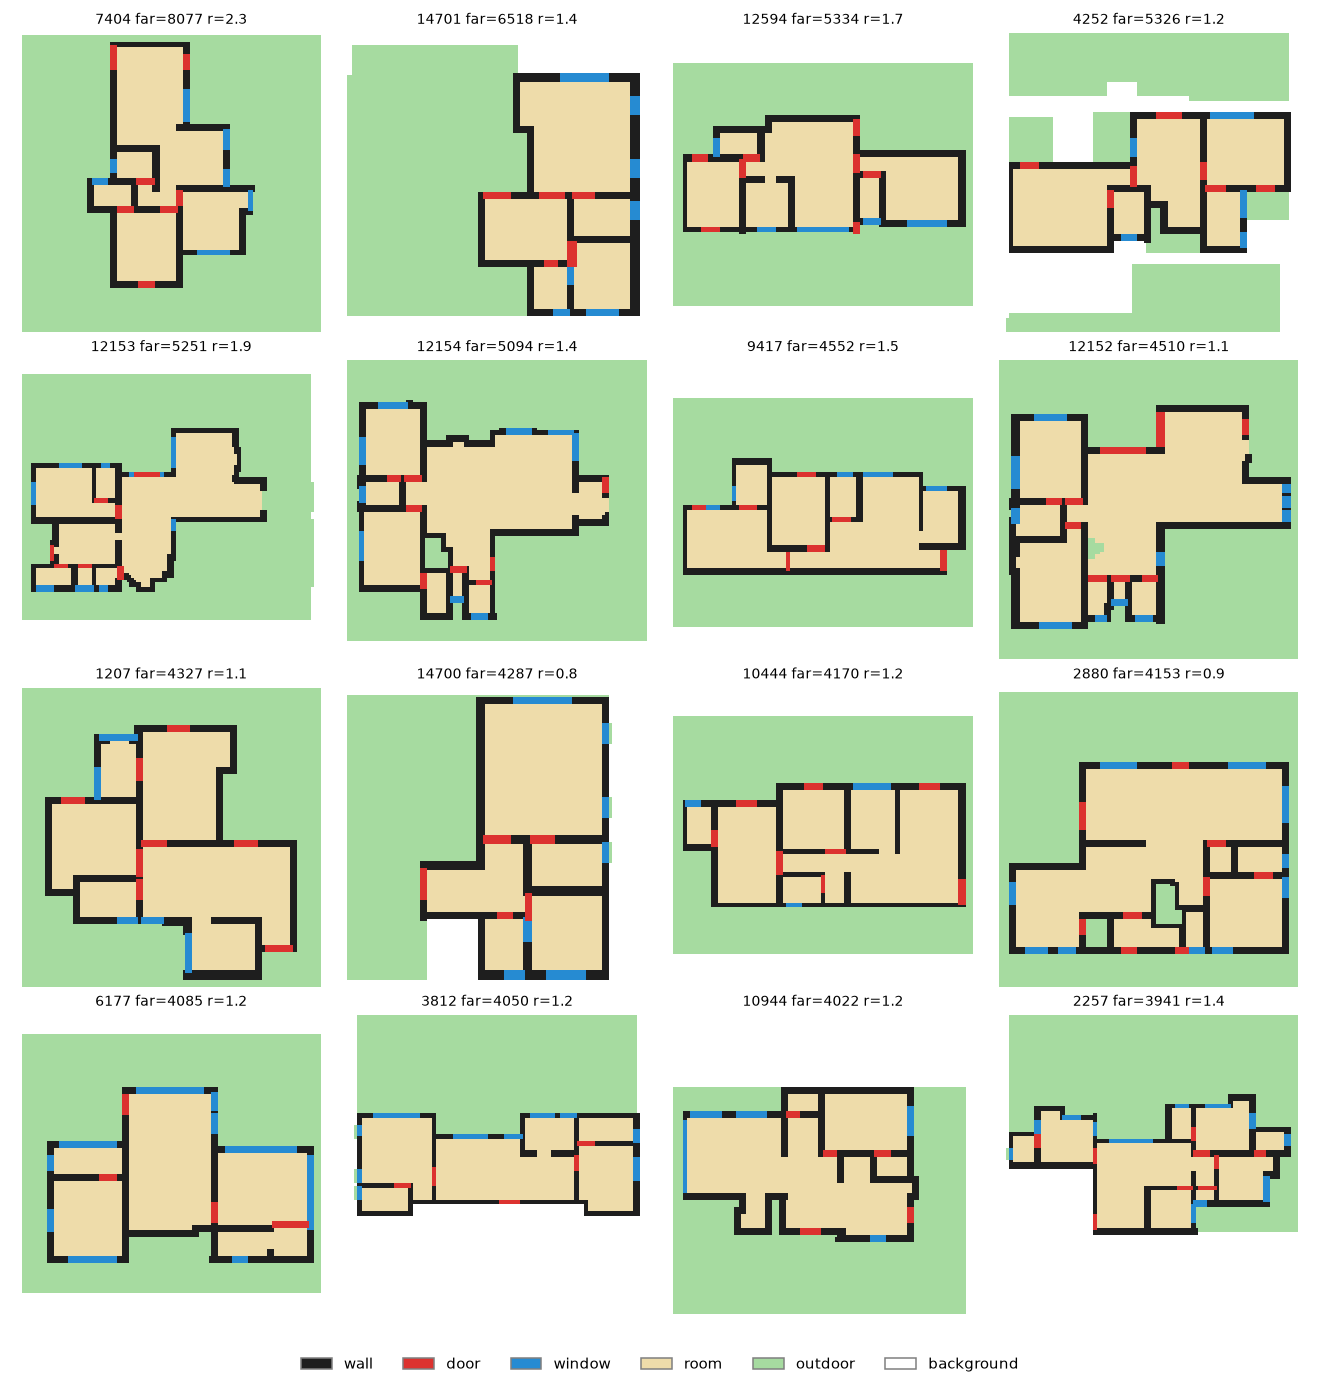
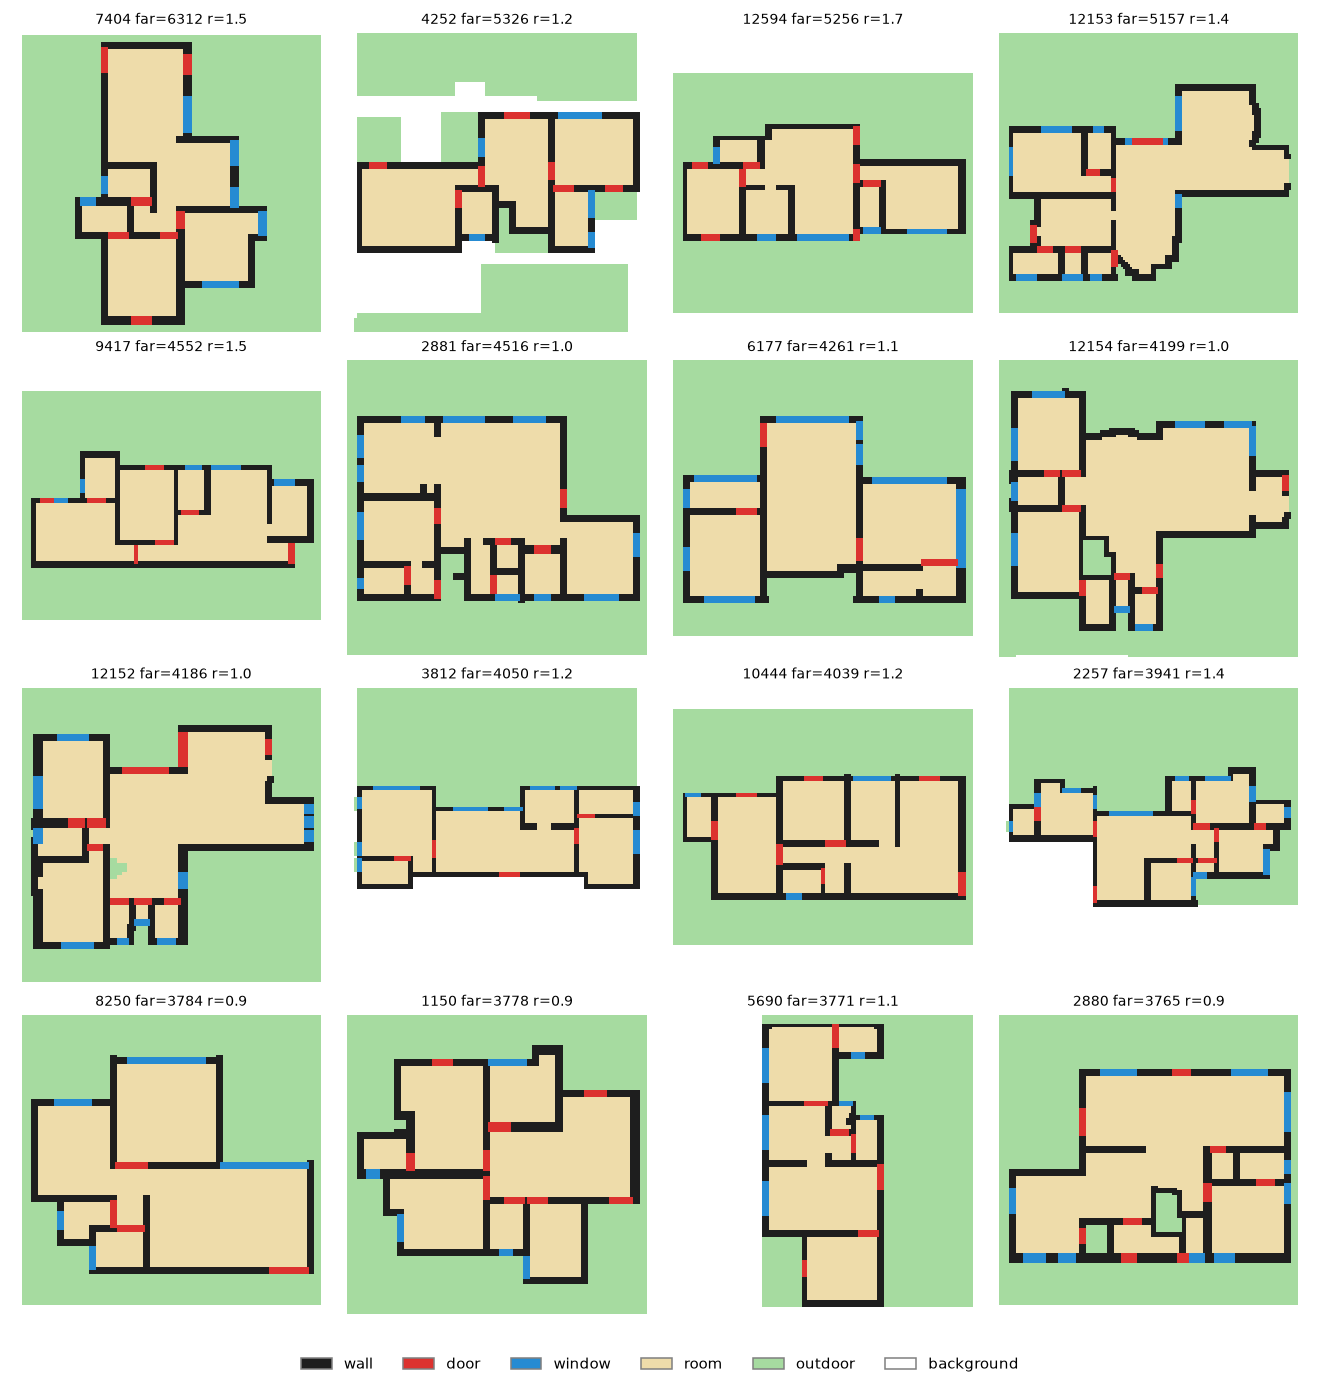
Frame plans on walls+doors+windows only; add data notes
- Framing: bounding box of walls, doors (incl. front door) and windows
  scaled to 120 px + 4 px margin; balconies, outside stairs and outdoor
  areas beyond the frame are cropped (previously protruding balconies/
  stairs shrank the building, up to 1.8x)
- Full re-run: 759 near-duplicates removed; split 12,446 / 1,556 / 1,556
- docs/data_notes.md: representation, framing rule, data problems,
  dedup/split rules and current numbers; regenerated figures

diff --git a/src/data/rasterize.py b/src/data/rasterize.py
@@ -1,9 +1,11 @@
 """Turning one vector floor plan into a 128x128 image ("rasterizing").
 
 Steps for one plan:
-  1. Find the bounding box of the building (walls, doors, rooms, balconies).
+  1. Find the bounding box of the building's structure (walls + doors +
+     windows).
   2. Scale it so the LONGER side fills the image minus the padding, keeping
-     the aspect ratio, and centre it.
+     the aspect ratio, and centre it. Anything outside the image (balconies,
+     outside stairs, garden, land ...) is simply cropped.
   3. Paint each class in PAINT_ORDER into a "label map": a 128x128 array where
      every pixel holds one class number (0=wall, 1=door, ... 5=background).
   4. Convert the label map to 6 channels ("one-hot"): channel c is 1 where
@@ -23,7 +25,8 @@ SHIFT = 4
 
 
 def plan_bounds(plan):
-    """Smallest box (xmin, ymin, xmax, ymax) containing the building."""
+    """Smallest box (xmin, ymin, xmax, ymax) containing the building's
+    structure (EXTENT_FIELDS: walls, doors, windows)."""
     boxes = [poly.bounds
              for field in EXTENT_FIELDS
              for poly in get_polygons(plan, field)]

diff --git a/src/data/classes.py b/src/data/classes.py
@@ -24,9 +24,10 @@ RESPLAN_FIELDS = {
 }
 
 # Fields that decide how a plan is scaled into the 128x128 frame: the
-# building itself (incl. balconies). Garden/land/parking are left out so a
-# big garden doesn't shrink the apartment; they are cut off at the frame edge.
-EXTENT_FIELDS = ["wall", "door", "front_door", "window", "balcony"] + RESPLAN_FIELDS[ROOM]
+# building's structure only (walls + doors + windows). Everything else
+# (balconies, outside stairs, garden, land, parking) is cropped where it
+# extends beyond the frame, so it can never shrink the building.
+EXTENT_FIELDS = ["wall", "door", "front_door", "window"]
 
 # Order in which classes are painted. Later ones are painted on top, so if two
 # shapes cover the same pixel, the later class wins: outdoor is the bottom

diff --git a/docs/data_notes.md b/docs/data_notes.md
@@ -1,0 +1,76 @@
+# Data notes
+
+How the ResPlan dataset is turned into our training data, and why.
+Code: `src/data/` · settings: `configs/data.yaml` · rebuild: `python -m src.data.build_dataset` · checks/figures: `python -m src.data.checks`.
+
+## Source
+
+- **ResPlan** (github.com/m-agour/ResPlan, data CC BY 4.0 — credit it in the report): 17,000 residential unit plans, one pickle (`ResPlan.pkl`), a list of dicts of shapely shapes.
+- Coordinates are **not metres** (the README says otherwise): every plan is rescaled to ~256 units on its long side. Only `area` (m², from the listing) is metric.
+- ~775 geometries are invalid (self-intersecting). We rasterize by drawing coordinates with OpenCV, which works on invalid shapes; avoid shapely boolean ops on raw data.
+- The pickle is loaded with an allow-listed unpickler (`src/data/resplan.py`), because pickles can run code.
+
+## Representation
+
+128×128 image, 6 one-hot channels (exactly one class per pixel), defined in `src/data/classes.py`:
+
+| Channel | ResPlan fields |
+|---|---|
+| wall | wall |
+| door | door, front_door |
+| window | window |
+| room (enclosed indoor rooms) | living, bedroom, bathroom, kitchen, storage, stair — clipped to `inner` |
+| outdoor | balcony, garden, land, parking, pool (no terrace class exists) |
+| background | everything else (incl. `inner`, `neighbor`) |
+
+Paint order: outdoor → room → wall → window → door, so doors/windows sit on top of walls (they fill wall gaps; they don't overlap walls in the raw data).
+
+## Framing rule
+
+Each plan is **normalized on its own building structure**:
+
+1. Take the bounding box of **walls + doors (incl. front door) + windows** only.
+2. Scale it so its longer side is **120 px** (4 px margin on each side), keeping the aspect ratio, and centre it.
+3. Everything else — balconies, outside stairs, garden, land, parking — is drawn in that frame and **cropped** where it extends beyond the 128×128 image.
+
+Why: earlier versions framed on walls + rooms + balconies, so a protruding balcony or an outside stair shrank the building (up to 1.8×). Switching to structure-only framing enlarged 4,769 plans by >1% (1,670 by >10%, 106 by >25%).
+
+Consequence: tall or wide plans have empty margin on two sides; when the plan has a yard, that margin shows as outdoor. This is expected, not a framing error.
+
+**Real scale is kept in `metadata.csv`**: `area_m2`, `px_per_unit`, `metres_per_pixel` (= sqrt(area_m2 / (inner + wall area)) / px_per_unit), `wall_thickness_m`, `scale_ok` (False for 67 plans whose implied wall thickness is outside 0.10–0.40 m, i.e. a bad `area` value). Median ≈ 0.11 m per pixel; walls/doors are ~2 px thick.
+
+## Data problems found and how they are handled
+
+1. **ResPlan "augmented" plans are broken → excluded (683 plans).** `split.json["augmented"]` lists rotated/flipped/scaled copies (ids ≥ 100,000). ResPlan's augmentation never transformed `inner`, `land`, `garden`, `parking` or `neighbor` (untransformed in 239/239 detectable cases), so their outdoor areas sit in the wrong place and their real scale is wrong. They are copies of plans already in the dataset anyway. Figure: `outputs/raw_vs_processed.png` (rows 1–2).
+2. **Open-air areas labelled as rooms → clipped (~86 plans).** Some plans have room polygons outside the walls (e.g. plan 2093: a room covering the whole plot). Room pixels outside `inner` (+1 px) become outdoor. Normal plans change by ≤ 0.14% of room pixels.
+3. **Known leftovers (not fixed, single plans):** 12117 has an oversized `land` shape; 4476 has an unusually large door polygon.
+
+Frame-consistency check (original plans): median 100% of wall area lies inside `land` and of room area inside `inner`; augmented plans: median 77%.
+
+## Near-duplicates and split
+
+Listings are re-posted, so near-identical plans exist. Two stages (`src/data/dedup.py`):
+
+1. **Candidates:** structure (wall+door+window) shrunk to 32×32, cosine similarity over all 8 rotations/flips, ≥ 0.75.
+2. **Confirm:** **tolerant mean per-class IoU** on the full 128×128 maps (wall, door, window, room, outdoor; a pixel matches if the other plan has the same class within 1 px). Plain IoU was rejected: 2-px walls traced 1 px apart lose ~half their IoU, so near-identical re-posts scored ~0.8.
+
+A plan is **removed only if its tolerant IoU ≥ 0.90 with a kept plan** (direct match, no chain removals; lowest plan id is kept). Kept plans with structure cosine ≥ 0.85 form **similarity groups**; a whole group goes to one split, so similar plans never cross train/val/test. The build asserts both rules.
+
+## Current numbers (structure-only framing, 2026-10-07)
+
+| | Plans |
+|---|---|
+| ResPlan total | 17,000 |
+| Excluded augmented | 683 |
+| Removed near-duplicates | 759 |
+| **train / val / test** | **12,446 / 1,556 / 1,556** |
+
+Doors: median 27 px per component, windows 30 px; < 0.1% are under 6 px.
+
+Outdoor anomaly scan on the final 15,558 plans (pixel heuristics; they mostly flag legitimate yards, see `outputs/anomalies.png`): outdoor > 1.5× indoor: 3 · outdoor pixels > 10 px from any wall: 12,786 · outdoor box overlapping the indoor box < 10%: 248.
+
+## Outputs
+
+`data/processed/` (git-ignored): `train/val/test.npz` (`masks` (N,6,128,128) uint8, `plan_ids`), `all_labels.npz` (label maps of all 17,000 plans, for checks), `metadata.csv` (all plans; `split` ∈ train/val/test/removed_duplicate/excluded_augmented), `similar_pairs.csv`.
+
+Figures in `outputs/`: `samples.png`, `opening_sizes.png`, `duplicate_pairs.png`, `anomalies.png`, `raw_vs_processed.png`.

diff --git a/CLAUDE.md b/CLAUDE.md
@@ -34,7 +34,7 @@ Also required: a **Gradio interface**, **trained models**, **documentation**, an
 - Channel order is defined once in `src/data/classes.py` — always import it from there.
 - Channels are mutually exclusive (one-hot: exactly one class per pixel). Paint order outdoor → room → wall → window → door, so doors/windows are drawn on top of walls.
 - ResPlan mapping: door = door + front_door; room = enclosed indoor rooms only (living, bedroom, bathroom, kitchen, storage, stair); outdoor = balcony, garden, land (yards/setbacks/light wells), parking, pool (ResPlan has no terrace class); inner/neighbor → background.
-- **Normalized per plan**: the building (walls, openings, rooms, balconies — not garden/land) is scaled so its longer side is 120 px (4 px padding), aspect ratio kept, centred; outdoor beyond the frame is clipped. Walls/doors are only ~2 px thick; doors/windows median ~27–30 px area, <0.1% under 6 px.
+- **Framing rule — normalized per plan on the building's structure**: the bounding box of walls + doors (incl. front door) + windows is scaled so its longer side is 120 px (4 px margin each side), aspect ratio kept, centred. Nothing else affects the frame; balconies, outside stairs, garden/land/parking that extend beyond the 128×128 image are cropped. (Before 2026-10-07 balconies/rooms counted too, so a protruding balcony or outside stair shrank the building.) See `docs/data_notes.md`. Walls/doors are only ~2 px thick; doors/windows median ~27–30 px area, <0.1% under 6 px.
 - **Real scale is preserved in metadata.csv**: `area_m2` (real area from the listing), `px_per_unit`, `metres_per_pixel` (= sqrt(area_m2 / (inner+wall area)) / px_per_unit), `wall_thickness_m`, and `scale_ok` (False for the 67 plans whose implied wall thickness is outside 0.10–0.40 m, i.e. a bad `area` value).
 
 ## Structural rules (for constraints and metrics)
@@ -63,6 +63,7 @@ src/        Python source code (the reusable logic: data, models, constraints, e
 configs/    YAML config files (hyperparameters, paths, experiment settings)
 notebooks/  Jupyter notebooks for exploration and Kaggle training runs
 app/        Gradio web interface
+docs/       Documentation (docs/data_notes.md = data pipeline decisions + numbers)
 data/       Datasets (git-ignored)
 outputs/    Checkpoints, logs, figures, results (git-ignored except *.png figures)
 ```
